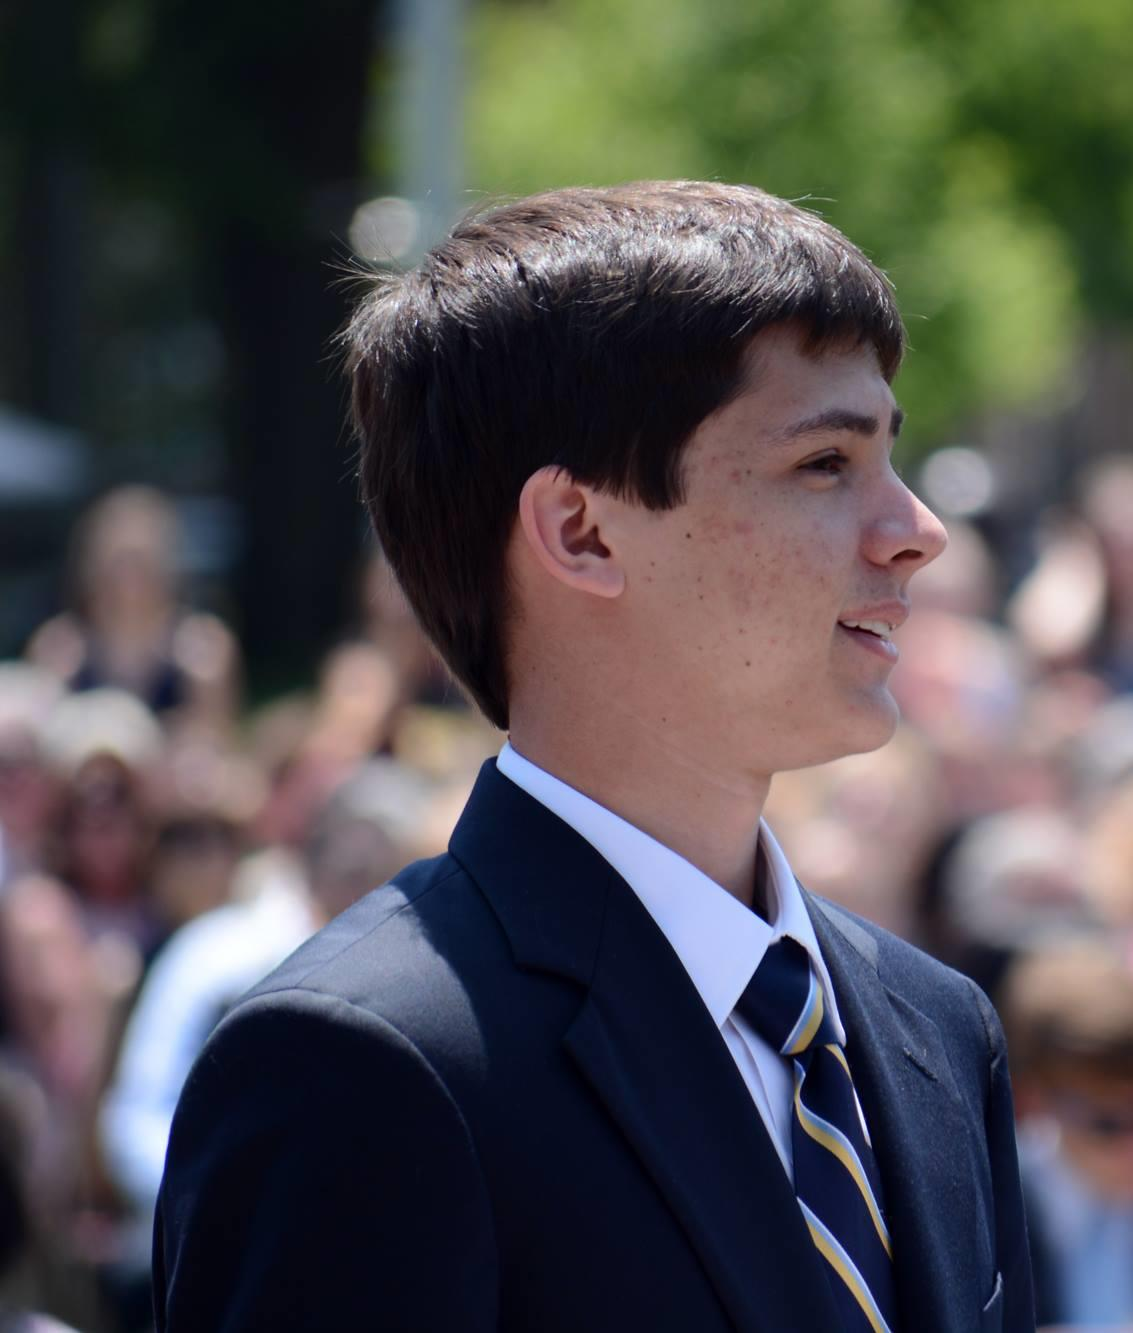
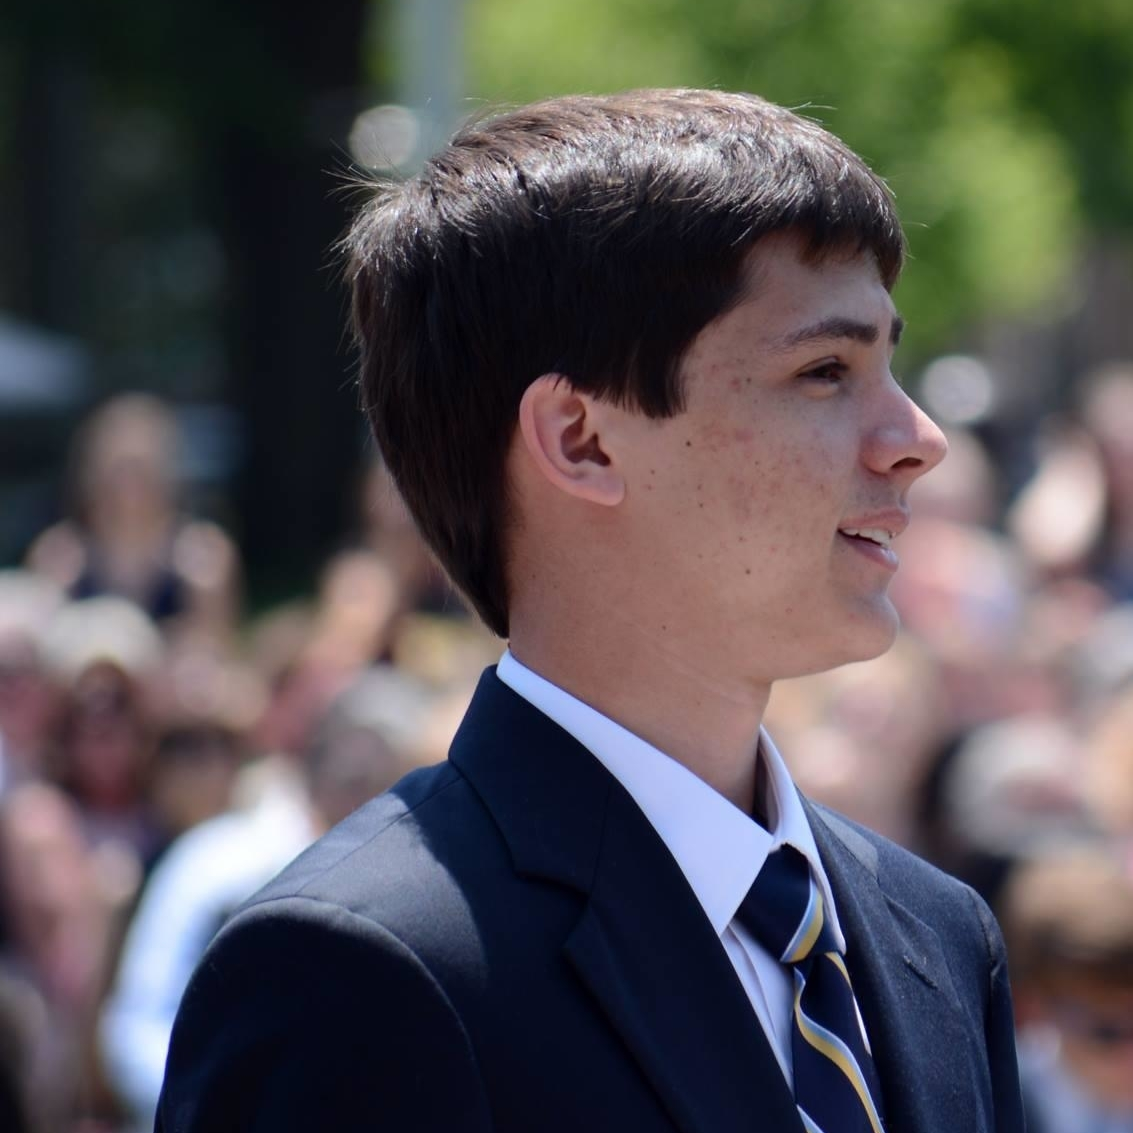
home page start
-Home page started
-need to add multiple switching messages appear for subtitle (possibly
typed, then deleted?)
-updated Header more
-switch css to consistent theme usage
-added portrait component + updated picture
-added new google fonts (Quicksand)

diff --git a/src/components/Header.jsx b/src/components/Header.jsx
@@ -10,30 +10,43 @@ const NavBar = styled.ul`
     right: 0;
     padding: 0;
     list-style-type: none;
-    background-color: #222;
+    background-color: ${props => props.theme.primary};
     text-align: right;
-    height: auto;
     z-index: 1000;
 `;
 
 const StyledLink = styled(Link)`
 	display: inline-block;
 	font-family: sans-serif;
-    color: aliceblue;
+    color: ${props => props.theme.secondary};
     text-align: center;
-    padding: 12px 16px;
+    padding: 24px 16px;
     text-decoration: none;
     &:hover {
-	    background-color: #444;
-    	text-decoration: underline;
-      	box-shadow: inset 0 0 4px #000000;
+	    background-color: ${props => props.theme.lightPrimary};
+      	box-shadow: inset 0 -4px 0 ${props => props.theme.secondary};
 	}
+`;
+
+const Initials = styled.div`
+    position: fixed;
+    display: inline-block;
+    top: 0;
+    left: 0;
+    height: 66px;
+    width: 120px;
+    line-height: 66px;
+    text-align: center;
+    font-size: 40px;
+    box-shadow: inset 0 -2px 0 ${props => props.theme.primary};
+    background: ${props => props.theme.secondary};
 `;
 
 export default class Header extends React.Component {
 	render(){
 		return (
     		<NavBar>
+                <Initials>MM</Initials>
     			<StyledLink to="/">Home</StyledLink>
     			<StyledLink to="/about">About</StyledLink>
     			<StyledLink to="/projects">Projects</StyledLink>

diff --git a/src/pages/Home.jsx b/src/pages/Home.jsx
@@ -1,0 +1,62 @@
+import React from 'react';
+import { connect } from 'react-redux';
+import styled from 'styled-components';
+import { toggleMenu } from '../actions';
+import { PageContainer, Portrait } from '../components';
+
+const PicWrapper = styled.div`
+	width: 50%;
+	margin: 0 auto;
+	margin-top: 30px;
+`
+
+const NameTitle = styled.h1`
+	position: relative;	
+	margin: 20px;
+	text-align: center;
+	font-size: 120px;
+	font-weight: 300;
+	height: 90px;
+	line-height: 90px;
+	color: ${props => props.theme.black};
+`;
+
+const Subtitle = styled.div`
+	margin: 20px;
+	text-align: center;
+	font-size: 50px;
+	font-weight: 100;
+	height: 40px;
+	line-height: 40px;
+`;
+
+class Home extends React.Component {
+	componentDidMount() {
+		if(this.props.menu){
+			this.props.dispatch(toggleMenu(false));
+		}
+	}
+
+	render(){
+		return (
+				<PageContainer>
+					<PicWrapper>
+						<Portrait/>
+					</PicWrapper>
+					<NameTitle> 
+						Mariano Montori 
+						<Subtitle> web developer </Subtitle>
+					</NameTitle>
+				</PageContainer>
+		)
+	}
+}
+
+function mapStateToProps(state) {
+		var { menu } = state.menu;
+		return{
+			menu
+		}
+}
+
+export default connect(mapStateToProps)(Home)

diff --git a/src/pages/Container.jsx b/src/pages/Container.jsx
@@ -1,10 +1,20 @@
 import React from 'react';
 import { connect } from 'react-redux';
 import { withRouter } from 'react-router-dom';
-import { ThemeProvider } from 'styled-components';
+import styled, { ThemeProvider } from 'styled-components';
 import { Header } from '../components';
 import { toggleTheme } from '../actions';
 import { defaultTheme, nightTheme } from '../styles';
+
+const Styles = styled.div`
+    position: fixed; 
+    width: 100%;
+    height: 100%; 
+    z-index: 10;
+    top: 0; 
+    left: 0;
+    background: ${props => props.theme.secondary};
+`;
 
 class Container extends React.Component {
     componentWillMount() {
@@ -15,10 +25,10 @@ class Container extends React.Component {
         var { theme, children } = this.props;
         return theme ? (
             <ThemeProvider theme={theme}>
-                <div>
+                <Styles>
                     <Header/>
                     {React.Children.toArray(children)}
-                </div>
+                </Styles>
             </ThemeProvider>
         ) : (
             <div> Loading... </div>

diff --git a/src/app.jsx b/src/app.jsx
@@ -6,7 +6,7 @@ import { ConnectedRouter } from 'react-router-redux';
 import { store, history } from './store.js';
 import{
 	Container,
-	MeleeHome,
+	Home,
 	About,
 	Projects,
 	Resume,
@@ -20,11 +20,11 @@ render(
 	<Provider store = {store}>
 	    <ConnectedRouter history = {history}>
 			<Container>
-				<Route exact path = "/" component = {Extras}/>
+				<Route exact path = "/" component = {Home}/>
 				<Route path = "/about" component = {About}/>
 				<Route path = "/projects" component = {Projects}/>
 				<Route path = "/resume" component = {Resume}/>
-				<Route path = "/extras" component = {MeleeHome}/>
+				<Route path = "/extras" component = {Extras}/>
 			</Container>
 		</ConnectedRouter>
   	</Provider>

diff --git a/src/components/Portrait.jsx b/src/components/Portrait.jsx
@@ -1,0 +1,23 @@
+import React from 'react';
+import styled from 'styled-components';
+
+const Photo = styled.img`
+		display: block;
+		margin: auto;
+		margin-top: 30px;
+		margin-bottom: 30px;
+		height: 200px;
+		width: 200px;
+		border: 3px solid ${props => props.theme.primary};
+		border-radius: 50%;
+`;
+
+const pic = require('../../static/portrait.jpg');
+
+export default class Portrait extends React.Component {
+	render(){
+		return (
+			<Photo src = {pic}/>
+		)
+	}
+}

diff --git a/src/pages/index.js b/src/pages/index.js
@@ -1,4 +1,5 @@
 import Container from './Container.jsx';
+import Home from './Home.jsx';
 import About from './About.jsx';
 import Projects from './Projects.jsx';
 import Resume from './Resume.jsx';
@@ -7,6 +8,7 @@ import MeleeHome from './MeleeHome/index.jsx';
 
 export {
 	Container,
+	Home,
 	About,
 	Projects,
 	Resume,

diff --git a/src/index.html b/src/index.html
@@ -5,6 +5,7 @@
     <title>Mariano Montori's website</title>
     <link rel="icon" href="favicon.ico" type="image/x-icon"/>
 	  <link rel="shortcut icon" href="favicon.ico" type="image/x-icon"/>
+    <link href="https://fonts.googleapis.com/css?family=Quicksand" rel="stylesheet">
   </head>
 
   <body>

diff --git a/src/components/PageContainer.jsx b/src/components/PageContainer.jsx
@@ -3,7 +3,8 @@ import styled from 'styled-components';
 
 const StyledDiv = styled.div`
   position: relative;
-  padding-top: 40px;
+  padding-top: 80px;
+  width: 100%;
 `;
 
 export default class PageContainer extends React.Component {

diff --git a/src/components/index.js b/src/components/index.js
@@ -1,9 +1,11 @@
 import Header from './Header.jsx';
 import PageContainer from './PageContainer.jsx';
+import Portrait from './Portrait.jsx';
 import WIP from './WIP.jsx';
 
 export {
 	Header,
 	PageContainer,
+	Portrait,
 	WIP
 }

diff --git a/src/styles/theme.js b/src/styles/theme.js
@@ -1,6 +1,9 @@
 const defaultTheme = {
 	name: 'defaultTheme',
-	primary: 'orange',
+	primary: '#222',
+	lightPrimary: '#444',
+	secondary: 'WhiteSmoke',
+	black: 'black'
 };
 
 const nightTheme = {

diff --git a/src/styles/global_styles.js b/src/styles/global_styles.js
@@ -3,4 +3,5 @@ import { injectGlobal } from 'styled-components';
 export default injectGlobal`
 body {
     margin: 0px;
+	font-family: 'Quicksand', sans-serif;
 `;
